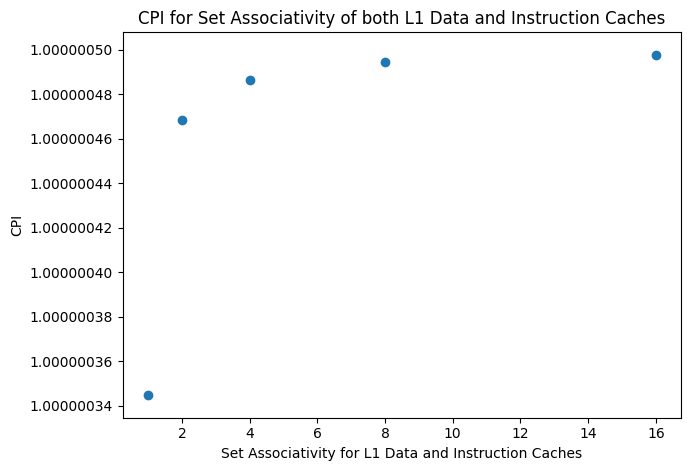
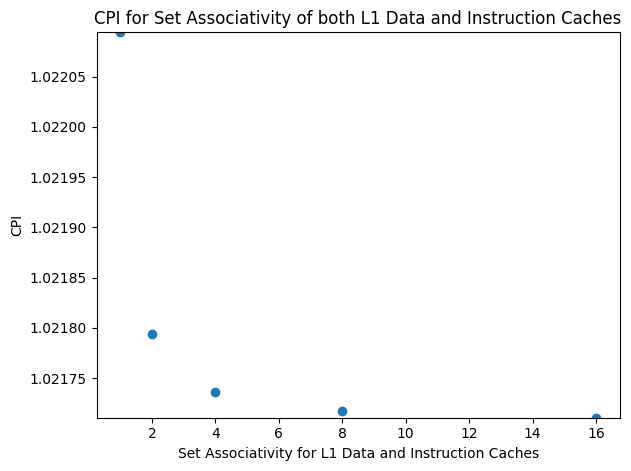
Found issue, using the wrong L2 cache rate.

diff --git a/Project 1/scripts/CPI_graph.py b/Project 1/scripts/CPI_graph.py
@@ -64,6 +64,7 @@ def readCPI(filename):
                     cpidata.append(CPIData(row[0], row[1], float(row[2]), l1d_assoc=1, l1i_assoc=2, l2_assoc=1))
             elif row[1][0] == "S" and row[1][1] == "i":
                 number = row[1][9]
+                number2 = row[1][10]
                 if number == "1" and number2 == ".":
                     cpidata.append(CPIData(row[0], row[1], float(row[2]), l1d_size=128, l1i_size=128))
                 elif number == "2":
@@ -161,7 +162,7 @@ def generateGraphs(cpidata):
     b470AllocI = []
     b470AllocIX = []
     for cpi in cpidata:
-        if cpi.bm == "401Data":
+        if cpi.bm == "401":
             if cpi.exp[0] == 'B' and cpi.exp[1] == 'l':
                 b401Block.append(cpi.cpi)
                 b401BlockX.append(cpi.size)

diff --git a/Project 1/scripts/cpi.py b/Project 1/scripts/cpi.py
@@ -1,11 +1,11 @@
 import os
 import csv
-data_directories = ["../401", "../429", "../456", "../458", "../470"]
+data_directories = ["401", "429Data", "456Data", "458Data", "470Data"]
 
 # Fields of interest in data files
 DL1_MISS_NUM_SRT  = "system.cpu.dcache.overall_miss_rate::total"
 IL1_MISS_NUM_SRT = "system.cpu.icache.overall_miss_rate::total"
-L2_MISS_NUM_SRT = "system.l2.overall_miss_rate::total"
+L2_MISS_NUM_SRT = "system.l2.overall_misses::total"#"system.l2.overall_miss_rate::total"
 TOTAL_NUM_INST_SRT = "sim_insts"
 
 data_list = [["Directory", "File", "CPI"]]
